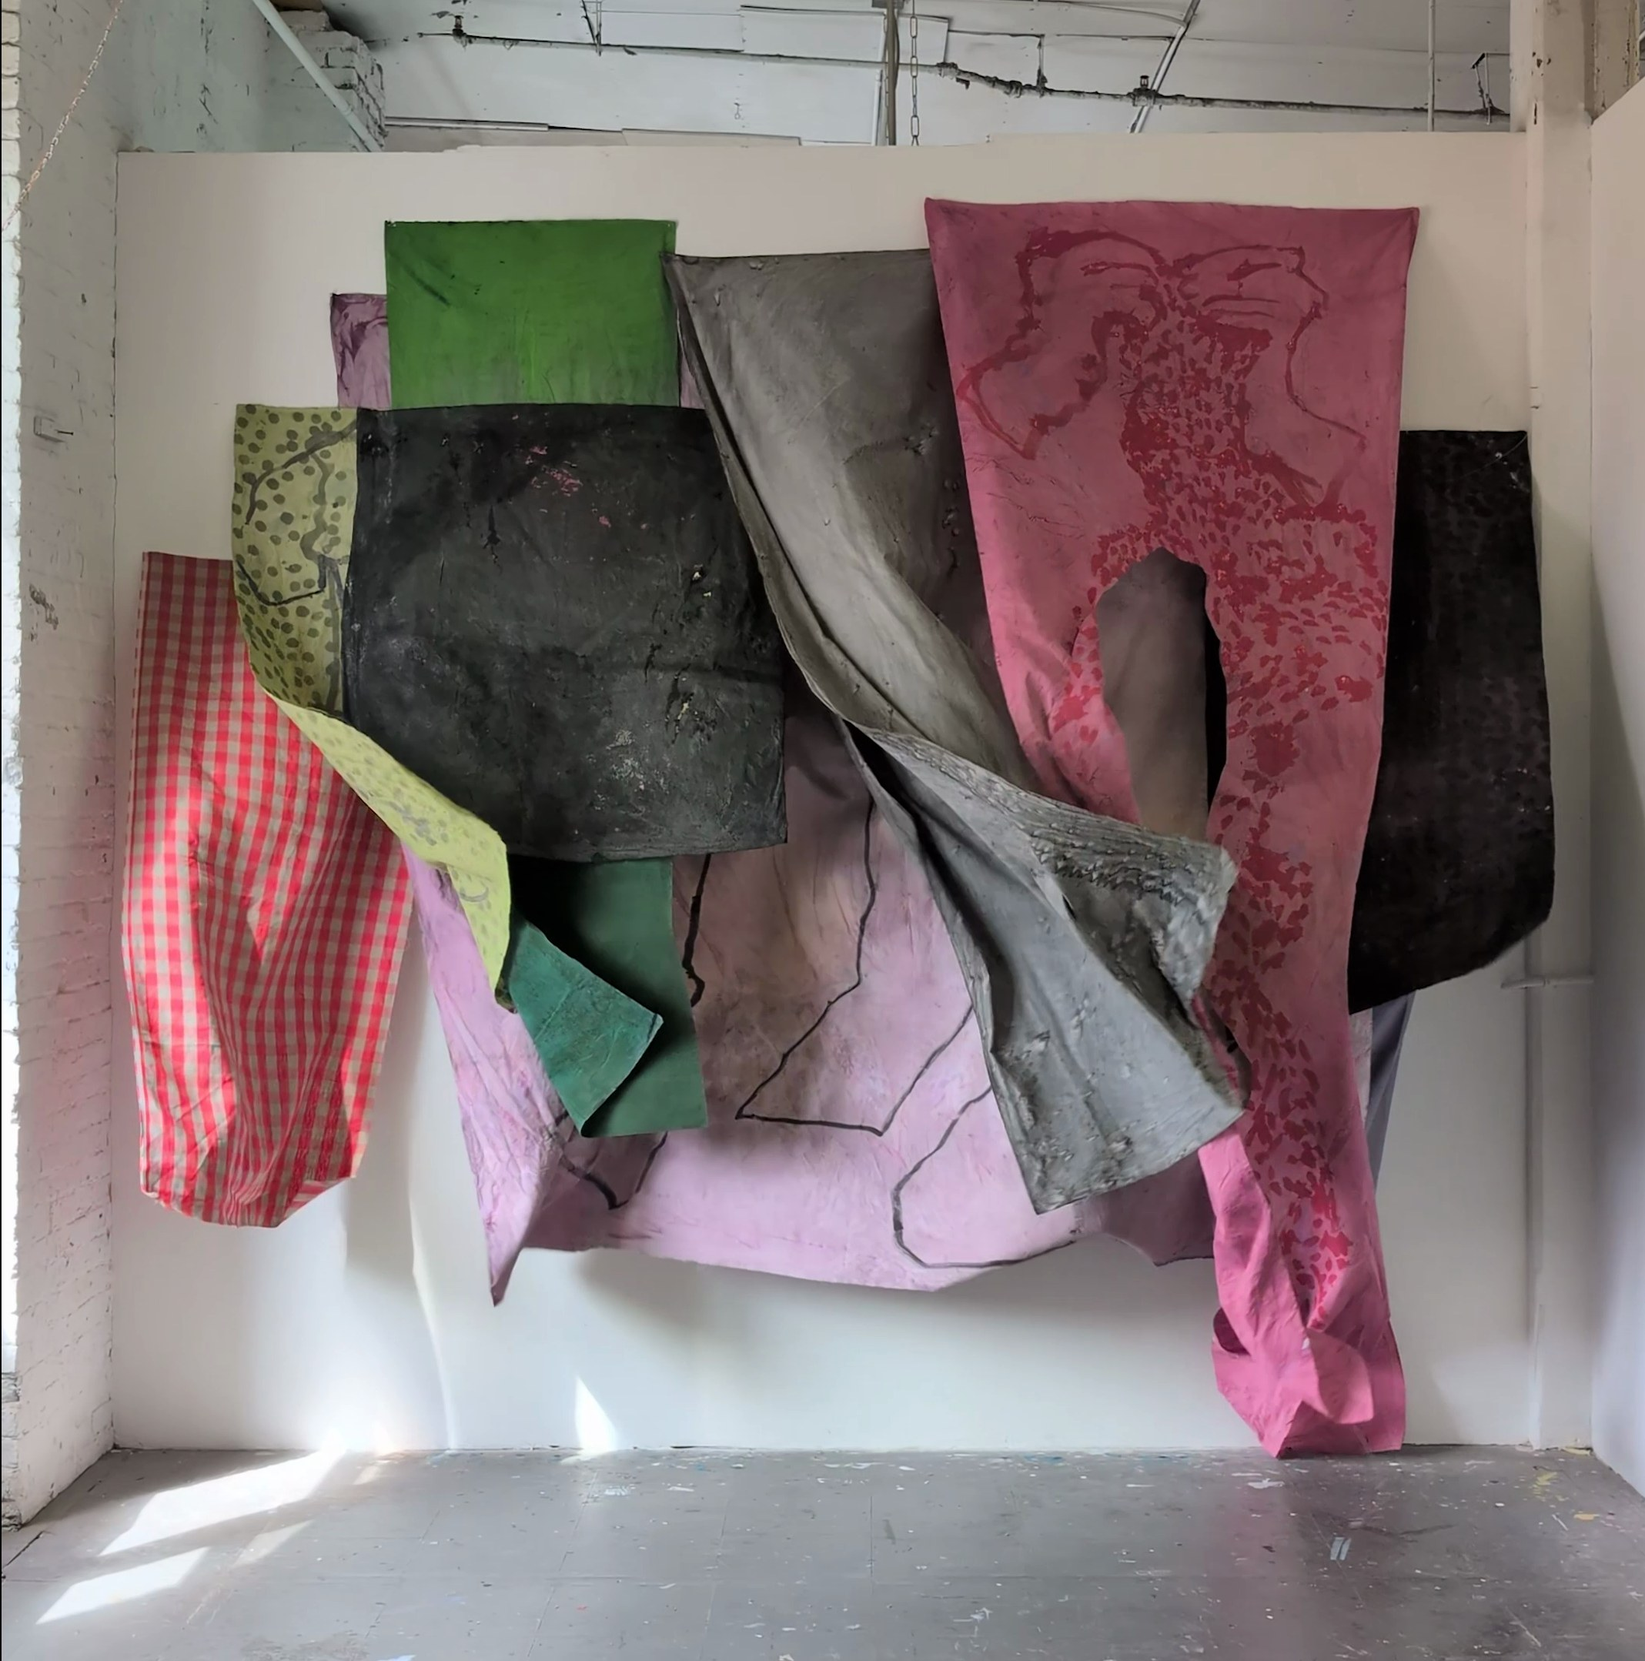
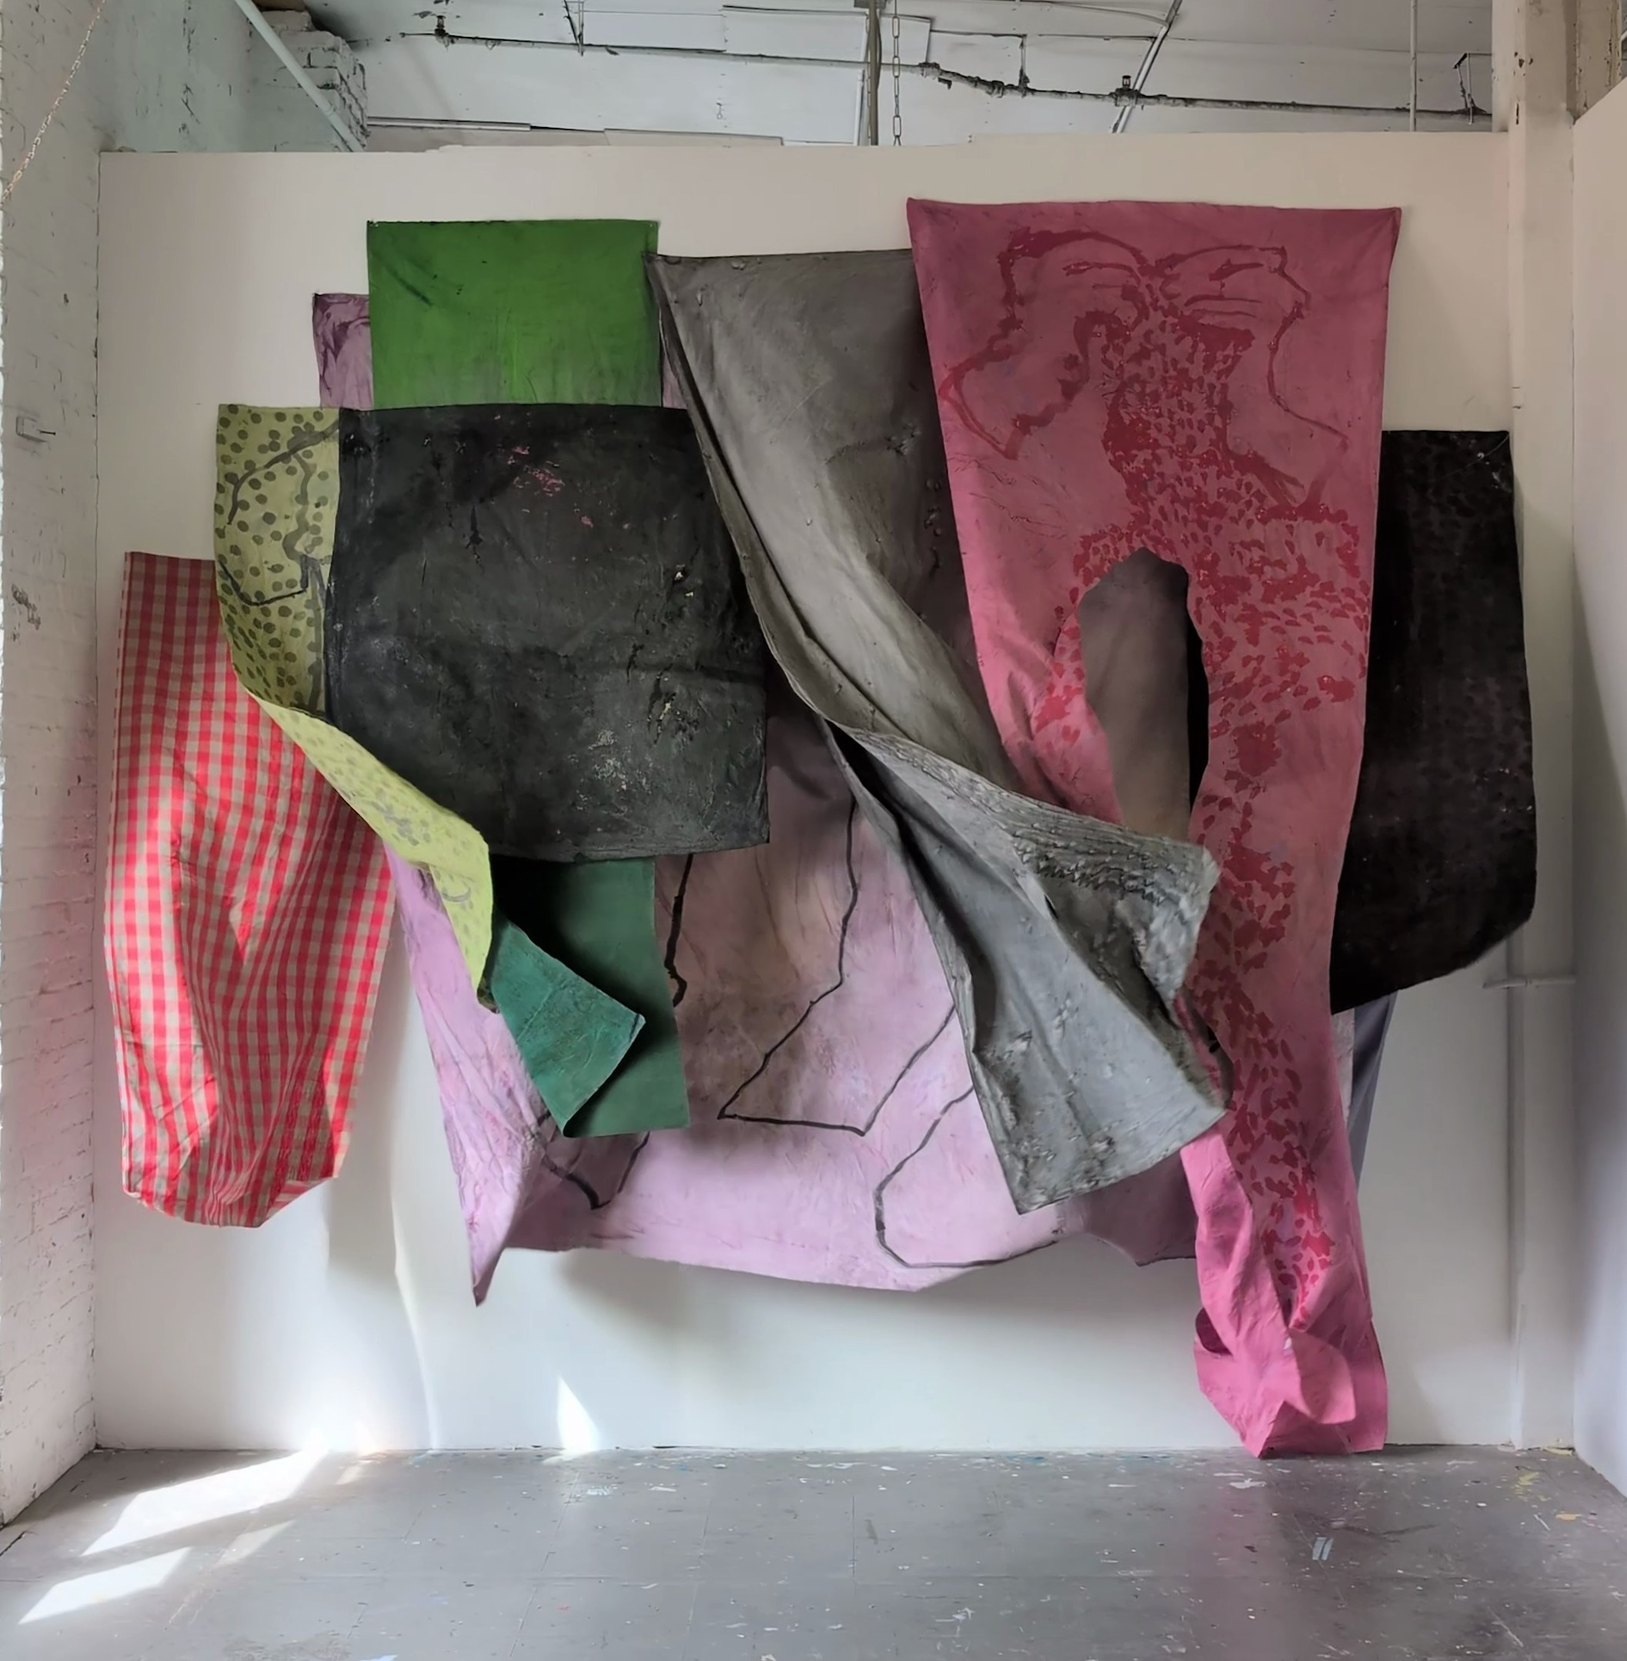
Add interactive exhibition still reels

diff --git a/aceart.html b/aceart.html
@@ -4,9 +4,10 @@
     <meta charset="UTF-8">
     <meta name="viewport" content="width=device-width, initial-scale=1">
     <title>Ace Art — M.E. Sparks</title>
-    <link rel="stylesheet" href="style.css?v=20260926-46">
+    <link rel="stylesheet" href="style.css?v=20261125-aceart-holding-aligned">
     <link rel="shortcut icon" type="image/png" href="favicon.png">
     <script src="responsive-header.js?v=2" defer></script>
+    <script src="exhibition-reel.js?v=2" defer></script>
   </head>
 
   <body class="exhibition-page aceart-page">
@@ -42,21 +43,49 @@
         <img loading="lazy" decoding="async" class="slide" alt="Ace Art installation view" src="images/exhibitions/aceart/web_06_install4-balanced.jpg" width="1600" height="1067">
         <figcaption><em>Draped Composition (In-Progress)</em>, 2024–2025, acrylic, tempera, ink, oil paint on canvas and recycled fabrics, dimensions variable</figcaption>
       </figure>
-      <figure>
-        <img loading="lazy" decoding="async" class="site-portrait slidevert" alt="Ace Art video still" src="images/exhibitions/aceart/web_08_perennial_videostill2-balanced.jpg" width="900" height="1600">
-        <figcaption><em>Perennial</em>, 2025, 4K digital video, loop (video still)</figcaption>
+      <figure class="exhibition-reel-figure">
+        <div class="exhibition-reel" role="group" aria-label="Floor Life video stills" data-still-label="Floor Life video still"
+             data-stills='["images/exhibitions/aceart/web_floorlife-still4-web.jpg", "images/exhibitions/aceart/web_floorlife-still2-web.jpg"]'>
+          <div class="exhibition-reel-frame" aria-live="polite">
+            <img loading="lazy" decoding="async" class="slide" alt="Floor Life video still 1 of 3" src="images/exhibitions/aceart/web_08_perennial_videostill2-balanced.jpg" width="900" height="1600">
+          </div>
+          <button type="button" aria-label="Previous video still" data-step="-1" hidden></button>
+          <button type="button" aria-label="Next video still" data-step="1" hidden></button>
+        </div>
+        <figcaption><em>Floor Life</em>, 2025, 4K digital video, loop (video stills)</figcaption>
       </figure>
-      <figure>
-        <img loading="lazy" decoding="async" class="site-portrait slidevert" alt="Ace Art video still" src="images/exhibitions/aceart/web_09_seatedfigure_videostill1-balanced.jpg" width="900" height="1600">
-        <figcaption><em>Seated Figure</em>, 2025, 4K digital video, loop (video still)</figcaption>
+      <figure class="exhibition-reel-figure">
+        <div class="exhibition-reel" role="group" aria-label="Seated Figure video stills" data-still-label="Seated Figure video still"
+             data-stills='["images/exhibitions/aceart/web_seatedfigure-still2-web.jpg", "images/exhibitions/aceart/web_seatedfigure-still3-web.jpg?v=20261125-1320"]'>
+          <div class="exhibition-reel-frame" aria-live="polite">
+            <img loading="lazy" decoding="async" class="slide" alt="Seated Figure video still 1 of 3" src="images/exhibitions/aceart/web_09_seatedfigure_videostill1-web.jpg" width="900" height="1600">
+          </div>
+          <button type="button" aria-label="Previous video still" data-step="-1" hidden></button>
+          <button type="button" aria-label="Next video still" data-step="1" hidden></button>
+        </div>
+        <figcaption><em>Seated Figure</em>, 2025, 4K digital video, loop (video stills)</figcaption>
       </figure>
-      <figure>
-        <img loading="lazy" decoding="async" class="site-portrait slidevert" alt="Ace Art video still" src="images/exhibitions/aceart/web_yellowcurtain1.jpg" width="863" height="1534">
-        <figcaption><em>Yellow Curtain</em>, 2025, 4K digital video, loop (video still)</figcaption>
+      <figure class="exhibition-reel-figure">
+        <div class="exhibition-reel" role="group" aria-label="Yellow Curtain video stills" data-still-label="Yellow Curtain video still"
+             data-stills='["images/exhibitions/aceart/web_10yellowcurtain_videostill3.jpg", "images/exhibitions/aceart/web_yellowcurtain-still3.jpg"]'>
+          <div class="exhibition-reel-frame" aria-live="polite">
+            <img loading="lazy" decoding="async" class="slide" alt="Yellow Curtain video still 1 of 3" src="images/exhibitions/aceart/web_yellowcurtain1.jpg" width="863" height="1534">
+          </div>
+          <button type="button" aria-label="Previous video still" data-step="-1" hidden></button>
+          <button type="button" aria-label="Next video still" data-step="1" hidden></button>
+        </div>
+        <figcaption><em>Yellow Curtain</em>, 2025, 4K digital video, loop (video stills)</figcaption>
       </figure>
-      <figure>
-        <img loading="lazy" decoding="async" class="site-portrait slide" alt="Ace Art video still" src="images/exhibitions/aceart/web_11_videostill_holdingpatterns_videostill4-balanced.jpg" width="1571" height="1600">
-        <figcaption><em>Holding Patterns (No.3)</em>, 2025, 4K digital video and sound, loop (video still)</figcaption>
+      <figure class="exhibition-reel-figure">
+        <div class="exhibition-reel" role="group" aria-label="Holding Patterns video stills" data-still-label="Holding Patterns video still"
+             data-stills='["images/exhibitions/aceart/web_holdingpatterns-still5.jpg", "images/exhibitions/aceart/web_holdingpatterns-still2.jpg", "images/exhibitions/aceart/web_holdingpatterns-still3.jpg"]'>
+          <div class="exhibition-reel-frame holding-patterns-frame" aria-live="polite">
+            <img loading="lazy" decoding="async" class="slide" alt="Holding Patterns video still 1 of 4" src="images/exhibitions/aceart/web_11_videostill_holdingpatterns_videostill4-balanced.jpg" width="1571" height="1600">
+          </div>
+          <button type="button" aria-label="Previous video still" data-step="-1" hidden></button>
+          <button type="button" aria-label="Next video still" data-step="1" hidden></button>
+        </div>
+        <figcaption><em>Holding Patterns (No.3)</em>, 2025, 4K digital video and sound, loop (video stills)</figcaption>
       </figure>
     </main>
   </body>

diff --git a/shibumi.html b/shibumi.html
@@ -4,9 +4,10 @@
     <meta charset="UTF-8">
     <meta name="viewport" content="width=device-width, initial-scale=1">
     <title>Soft Power — M.E. Sparks</title>
-    <link rel="stylesheet" href="style.css?v=20260927-1">
+    <link rel="stylesheet" href="style.css?v=20261125-shibumi-orange">
     <link rel="shortcut icon" type="image/png" href="favicon.png">
     <script src="responsive-header.js?v=2" defer></script>
+    <script src="exhibition-reel.js?v=3" defer></script>
   </head>
 
   <body class="exhibition-page shibumi-page">
@@ -30,9 +31,40 @@
         <img loading="lazy" decoding="async" class="slide" alt="Soft Power exhibition view" src="images/exhibitions/shibumi/web_01_shibumi1%20copy-balanced.jpg" width="1500" height="1000">
         <figcaption>Right: <em>Draped Composition (In-Progress)</em>, 2024–25, acrylic, tempera, ink, oil paint on canvas and recycled fabrics, approximately 78” x 84”<br><span class="caption-following-line">Left: <em>Seated Figure</em>, 2025, 4K digital video, loop, 58” monitor</span></figcaption>
       </figure>
-      <figure>
-        <img loading="lazy" decoding="async" class="site-portrait slidevert" alt="Seated Figure video still" src="images/exhibitions/shibumi/web_03_seatedfigure.webp" srcset="images/exhibitions/shibumi/web_03_seatedfigure-640.webp 360w, images/exhibitions/shibumi/web_03_seatedfigure.webp 900w" sizes="(max-width: 600px) 90vw, 60vw" width="900" height="1600">
-        <figcaption><em>Seated Figure</em>, 2025, 4K digital video, loop (video still)</figcaption>
+      <figure class="exhibition-reel-figure">
+        <div class="exhibition-reel shibumi-seated-figure-reel" role="group" aria-label="Seated Figure video stills" data-still-label="Seated Figure video still"
+             data-stills='["images/exhibitions/shibumi/web_seatedfigure-still2-web.jpg?v=20261125-2", "images/exhibitions/shibumi/web_seatedfigure-still3-web.jpg?v=20261125-5"]'>
+          <svg class="seated-figure-color-filters" width="0" height="0" aria-hidden="true" focusable="false">
+            <filter id="shibumi-orange-still-2" color-interpolation-filters="sRGB">
+              <!-- Select orange using both red–green and green–blue separation. -->
+              <feColorMatrix in="SourceGraphic" values="0 0 0 0 0  0 0 0 0 0  0 0 0 0 0  12 -12 0 0 -.96" result="redMask"/>
+              <feColorMatrix in="SourceGraphic" values="0 0 0 0 0  0 0 0 0 0  0 0 0 0 0  0 12 -12 0 -.84" result="goldMask"/>
+              <feComposite in="redMask" in2="goldMask" operator="in" result="orangeMask"/>
+              <feComponentTransfer in="SourceGraphic" result="corrected">
+                <feFuncR type="linear" slope="1.015" intercept=".009"/>
+              </feComponentTransfer>
+              <feComposite in="corrected" in2="orangeMask" operator="in"/>
+              <feComposite in2="SourceGraphic" operator="over"/>
+            </filter>
+            <filter id="shibumi-orange-still-3" color-interpolation-filters="sRGB">
+              <feColorMatrix in="SourceGraphic" values="0 0 0 0 0  0 0 0 0 0  0 0 0 0 0  12 -12 0 0 -.96" result="redMask"/>
+              <feColorMatrix in="SourceGraphic" values="0 0 0 0 0  0 0 0 0 0  0 0 0 0 0  0 12 -12 0 -.84" result="goldMask"/>
+              <feComposite in="redMask" in2="goldMask" operator="in" result="orangeMask"/>
+              <feComponentTransfer in="SourceGraphic" result="corrected">
+                <feFuncR type="linear" slope="1.035" intercept=".021"/>
+                <feFuncG type="linear" slope="1" intercept=".008"/>
+              </feComponentTransfer>
+              <feComposite in="corrected" in2="orangeMask" operator="in"/>
+              <feComposite in2="SourceGraphic" operator="over"/>
+            </filter>
+          </svg>
+          <div class="exhibition-reel-frame" aria-live="polite">
+            <img loading="lazy" decoding="async" class="slide" alt="Seated Figure video still 1 of 3" src="images/exhibitions/shibumi/web_03_seatedfigure-web.jpg?v=20261125-1307" srcset="images/exhibitions/shibumi/web_03_seatedfigure-640.jpg?v=20261125-1307 360w, images/exhibitions/shibumi/web_03_seatedfigure-web.jpg?v=20261125-1307 900w" sizes="70vw" width="900" height="1600">
+          </div>
+          <button type="button" aria-label="Previous video still" data-step="-1" hidden></button>
+          <button type="button" aria-label="Next video still" data-step="1" hidden></button>
+        </div>
+        <figcaption><em>Seated Figure</em>, 2025, 4K digital video, loop (video stills)</figcaption>
       </figure>
     </main>
   </body>

diff --git a/style.css b/style.css
@@ -1990,6 +1990,84 @@ html[data-navigation="side"] .exhibition-page .gallery-scroll-right {
 .vertical-exhibition-gallery figcaption:empty {
   display: none;
 }
+.vertical-exhibition-gallery .exhibition-reel-figure {
+  width: min(70%, calc(100% - 104px));
+  margin-inline: auto;
+}
+.exhibition-reel {
+  position: relative;
+}
+.exhibition-reel-frame {
+  aspect-ratio: var(--exhibition-reel-ratio);
+}
+.nars-page .exhibition-reel-frame {
+  --exhibition-reel-ratio: 2114 / 2158;
+}
+:is(.aceart-page, .shibumi-page) .exhibition-reel-frame {
+  --exhibition-reel-ratio: 9 / 16;
+}
+.aceart-page .holding-patterns-frame {
+  --exhibition-reel-ratio: 1571 / 1600;
+  overflow: hidden;
+}
+.exhibition-reel-frame .slide {
+  height: 100%;
+  object-fit: cover;
+}
+.holding-patterns-frame .slide {
+  /* Keep the wall-to-floor line at the same height while centering the crop. */
+  transform-origin: center 87%;
+  transform: translateY(var(--floor-alignment, 0.6%)) scale(1.04);
+}
+.holding-patterns-frame img:is([src$="/web_holdingpatterns-still5.jpg"], [src$="/web_holdingpatterns-still2.jpg"]) {
+  --floor-alignment: -0.44%;
+}
+.holding-patterns-frame img[src$="/web_holdingpatterns-still3.jpg"] {
+  --floor-alignment: 0.25%;
+}
+.seated-figure-color-filters {
+  position: absolute;
+}
+.shibumi-seated-figure-reel img[src*="/web_seatedfigure-still2-web.jpg"] {
+  filter: url(#shibumi-orange-still-2);
+}
+.shibumi-seated-figure-reel img[src*="/web_seatedfigure-still3-web.jpg"] {
+  filter: url(#shibumi-orange-still-3);
+}
+.exhibition-reel button {
+  position: absolute;
+  top: 50%;
+  transform: translateY(-50%);
+  width: 44px;
+  height: 44px;
+  padding: 0;
+  border: 0;
+  border-radius: 50%;
+  background: rgba(232, 232, 232, 0.9);
+  color: #111;
+  cursor: pointer;
+}
+.exhibition-reel button:not([hidden]) {
+  display: grid;
+  place-items: center;
+}
+.exhibition-reel button::before {
+  content: "";
+  width: 24px;
+  height: 18px;
+  background: #000;
+  -webkit-mask: var(--arrow-right-straight-mask) center / contain no-repeat;
+  mask: var(--arrow-right-straight-mask) center / contain no-repeat;
+}
+.exhibition-reel button[data-step="-1"] {
+  right: calc(100% + 8px);
+}
+.exhibition-reel button[data-step="-1"]::before {
+  transform: scaleX(-1);
+}
+.exhibition-reel button[data-step="1"] {
+  left: calc(100% + 8px);
+}
 html[data-navigation="top"] .exhibition-page:not(.video-page) .vertical-exhibition-gallery {
   margin-top: 0;
 }

diff --git a/nars.html b/nars.html
@@ -4,9 +4,10 @@
     <meta charset="UTF-8">
     <meta name="viewport" content="width=device-width, initial-scale=1">
     <title>Undercurrents — M.E. Sparks</title>
-    <link rel="stylesheet" href="style.css?v=20261017-nars">
+    <link rel="stylesheet" href="style.css?v=20261125-exhibition-reels">
     <link rel="shortcut icon" type="image/png" href="favicon.png">
     <script src="responsive-header.js?v=2" defer></script>
+    <script src="exhibition-reel.js?v=2" defer></script>
   </head>
   <body class="exhibition-page nars-page">
     <header class="top-bar">
@@ -24,9 +25,16 @@
       <figure>
         <img loading="eager" decoding="async" class="slide" alt="Undercurrents exhibition view" src="images/exhibitions/undercurrents/web_nars1.jpeg" width="1600" height="1231">
       </figure>
-      <figure>
-        <img loading="lazy" decoding="async" class="site-portrait slide" alt="Holding Patterns video still" src="images/exhibitions/nars/web_holdingpatterns_still.jpg?v=96726c7a5f" width="1588" height="1606">
-        <figcaption><em>Holding Patterns (No.3)</em>, 2025, 4K digital video and sound, loop (video still)</figcaption>
+      <figure class="exhibition-reel-figure">
+        <div class="exhibition-reel" role="group" aria-label="Holding Patterns video stills" data-still-label="Holding Patterns video still"
+             data-stills='["images/exhibitions/undercurrents/video%20still%202.png", "images/exhibitions/undercurrents/holdingpatterns_still.jpg"]'>
+          <div class="exhibition-reel-frame" aria-live="polite">
+            <img loading="lazy" decoding="async" class="slide" alt="Holding Patterns video still 1 of 3" src="images/exhibitions/nars/web_holdingpatterns_still.jpg?v=96726c7a5f" width="1588" height="1606">
+          </div>
+          <button type="button" aria-label="Previous video still" data-step="-1" hidden></button>
+          <button type="button" aria-label="Next video still" data-step="1" hidden></button>
+        </div>
+        <figcaption><em>Holding Patterns (No.3)</em>, 2025, 4K digital video and sound, loop (video stills)</figcaption>
       </figure>
       <figure>
         <img loading="lazy" decoding="async" class="slide" alt="NARS International Studio Residency" src="images/exhibitions/nars/web_narsresidency.jpg" width="1600" height="1205">

diff --git a/otherprojects.html b/otherprojects.html
@@ -158,15 +158,19 @@
       ];
       let holdingIndex = 0;
 
+      function advanceHoldingScreenshot(step) {
+        const count = holdingScreenshots.length;
+        holdingIndex = (holdingIndex + step + count) % count;
+        const screenshot = holdingScreenshots[holdingIndex];
+        holdingImage.src = `images/otherprojects/${screenshot.file}`;
+        holdingImage.height = screenshot.height;
+        holdingImage.alt = `holding screenshot ${holdingIndex + 1} of ${count}`;
+      }
+
+      holdingImage.style.cursor = 'pointer';
+      holdingImage.addEventListener('click', () => advanceHoldingScreenshot(1));
       holdingGallery.querySelectorAll('button').forEach((button) => {
-        button.addEventListener('click', () => {
-          const count = holdingScreenshots.length;
-          holdingIndex = (holdingIndex + Number(button.dataset.step) + count) % count;
-          const screenshot = holdingScreenshots[holdingIndex];
-          holdingImage.src = `images/otherprojects/${screenshot.file}`;
-          holdingImage.height = screenshot.height;
-          holdingImage.alt = `holding screenshot ${holdingIndex + 1} of ${count}`;
-        });
+        button.addEventListener('click', () => advanceHoldingScreenshot(Number(button.dataset.step)));
         button.hidden = false;
       });
 

diff --git a/exhibition-reel.js b/exhibition-reel.js
@@ -1,0 +1,26 @@
+document.querySelectorAll('.exhibition-reel').forEach((reel) => {
+  const still = reel.querySelector('img');
+  const stills = [still.getAttribute('src'), ...JSON.parse(reel.dataset.stills)];
+  const openingSrcset = still.getAttribute('srcset');
+  let stillIndex = 0;
+
+  function advance(step) {
+    stillIndex = (stillIndex + step + stills.length) % stills.length;
+    if (openingSrcset) {
+      if (stillIndex === 0) {
+        still.srcset = openingSrcset;
+      } else {
+        still.removeAttribute('srcset');
+      }
+    }
+    still.src = stills[stillIndex];
+    still.alt = `${reel.dataset.stillLabel} ${stillIndex + 1} of ${stills.length}`;
+  }
+
+  still.style.cursor = 'pointer';
+  still.addEventListener('click', () => advance(1));
+  reel.querySelectorAll('button').forEach((button) => {
+    button.addEventListener('click', () => advance(Number(button.dataset.step)));
+    button.hidden = false;
+  });
+});
